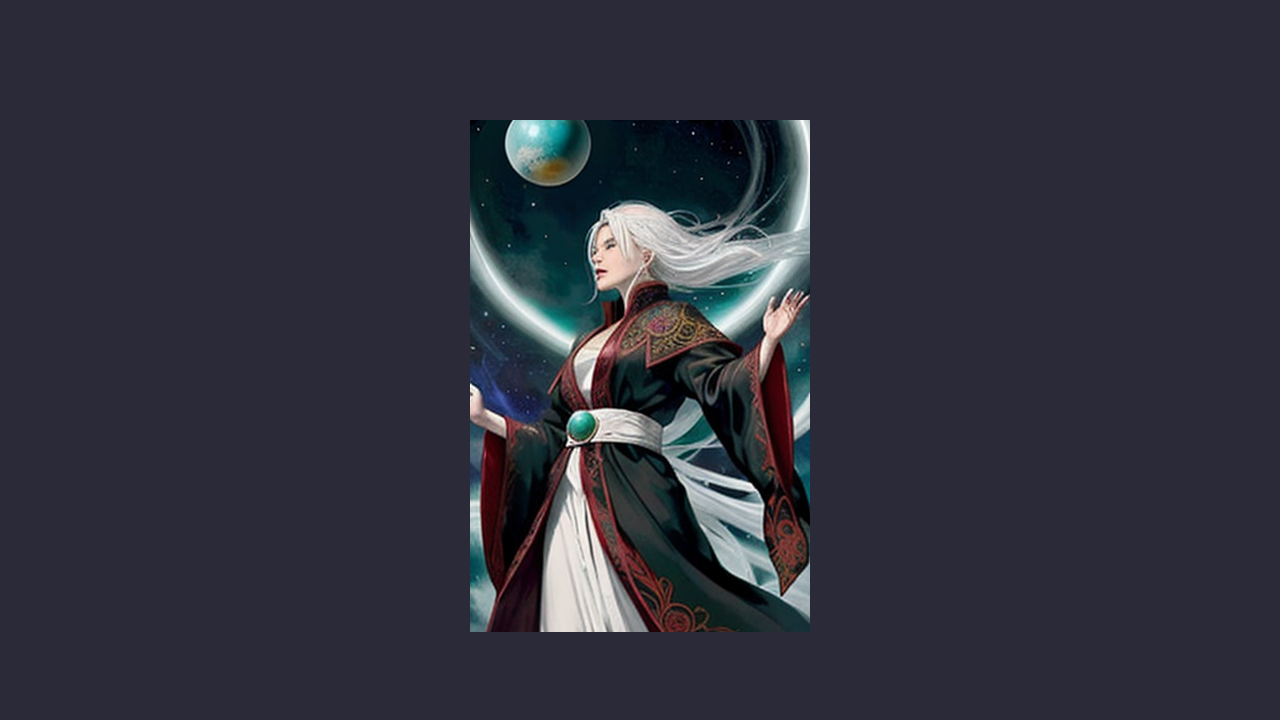
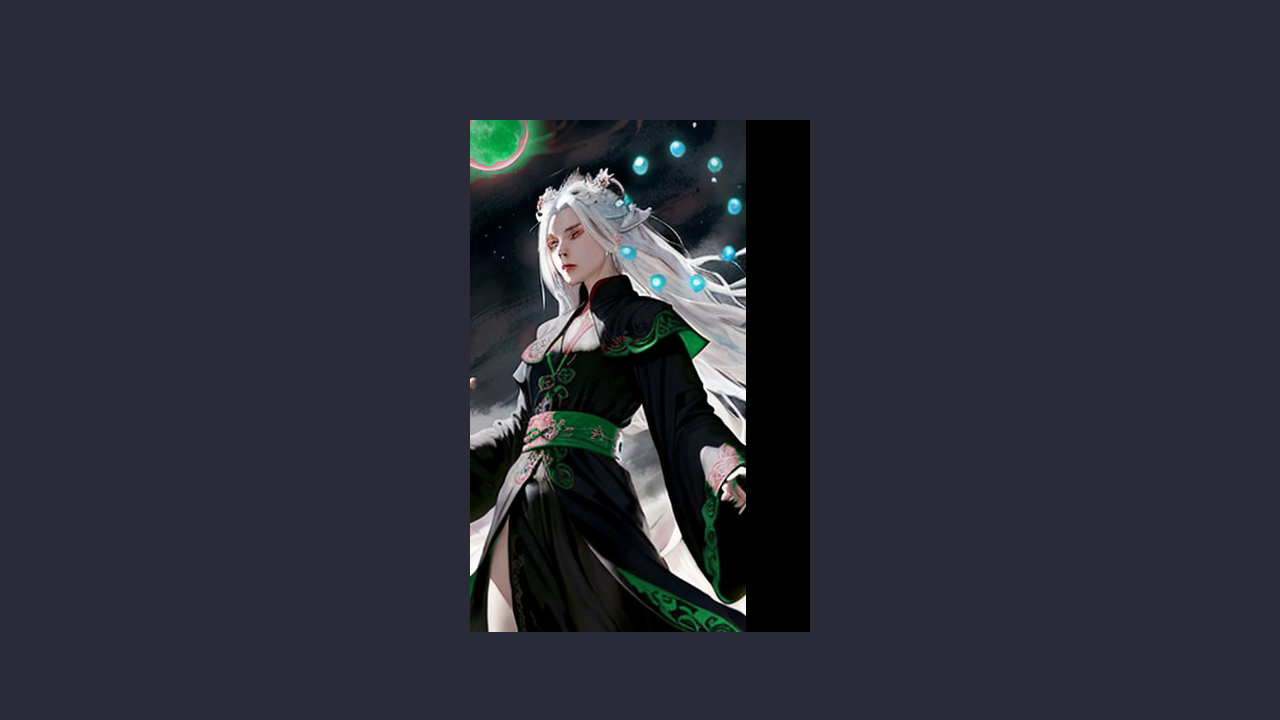
planets jade variant: deterministic jade tint of nine-orb base
The Nov-4 variant repaint pre-dated the nine-orb rev4 — element_swap
would have shown inconsistent art. Repaint denoises can't hold the orb
count (0.62 destroyed pose+orbs; 0.5 kept structure but lost jade and
degraded clusters to 3-8), so the variant is now a deterministic hue
shift of the base portrait: red-band pixels (sash/trim/moon, ~8.4%)
rotated to jade 0.40, feathered face ellipse protecting skin/eyeshadow
from the #7 bleed class. Nine cyan orbs preserved.

Verified in the live element_swap capture: same pose, nine orbs, jade
palette. Ledger #73 — variant-vs-base staleness noted as an open class.

Generated with [Devin](https://devin.ai)

Changed region(s): [[0.3438, 0.1528, 0.6562, 0.8861]]

diff --git a/reports/BUG_LEDGER.md b/reports/BUG_LEDGER.md
@@ -97,3 +97,4 @@ Format: bug → where caught → fix applied → gate that owns it now.
 | 70 | runner.gd parse error hangs the harness forever — script fails to load, Godot stays alive with nothing to quit; unsupervised invocations had no stall detection (var-gap := ternary inference was the trigger) | tooling | hung 136MB Godot process, no output 20min | --check-only not run before harness; manual launches lack the supervisor's stall-kill | run_goal | FIXED (this bug) + gate: run `--check-only` on runner.gd before any harness launch; supervisor stall-kill remains the safety net |
 | 71 | salute_sync expect keys (both_on_row, min_gap_px) declared but never evaluated — entry had no pass field, silently unverifiable | harness | action_shots report vs spec | simple action path only evaluated props_attached | A3 | FIXED — expect keys measured (row membership, cast-rect gap); unmeasurable → pass:null |
 | 72 | Harness run with relative job path exits instantly; stale report.json/shots then read as verification — roster golden blessed from 4h-old captures | tooling | shot/report mtimes vs jobs.json | runner requires abs path; caller passed relative; stale outputs indistinguishable from fresh | golden_check | FIXED — golden_check now flags shots older than jobs.json (pass:null, "stale shot"); callers must pass abs job path |
+| 73 | xx_card_planets_jade variant stale: repainted Nov-4 base, pre-dated nine-orb rev4 — swap would show inconsistent art (old pose, no orbs) | component | accepted/ mtimes vs base rev | variant not regen'd after base rev bump; no freshness gate between variant and base revs | C2 | FIXED — rev3 deterministic jade hue-shift of base rev4 (red band->jade, face-protect ellipse vs #7 bleed); element_swap now shows same-pose nine-orb jade card. OPEN class: variants should re-derive when base accepted/ changes — no automated rev-staleness check exists |
